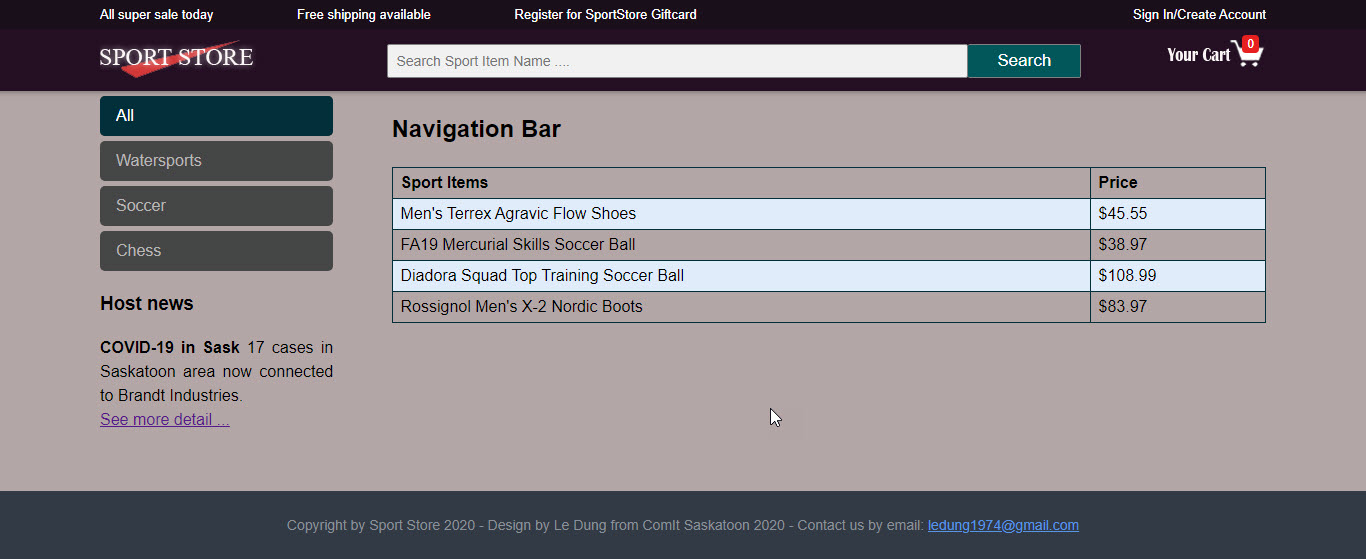
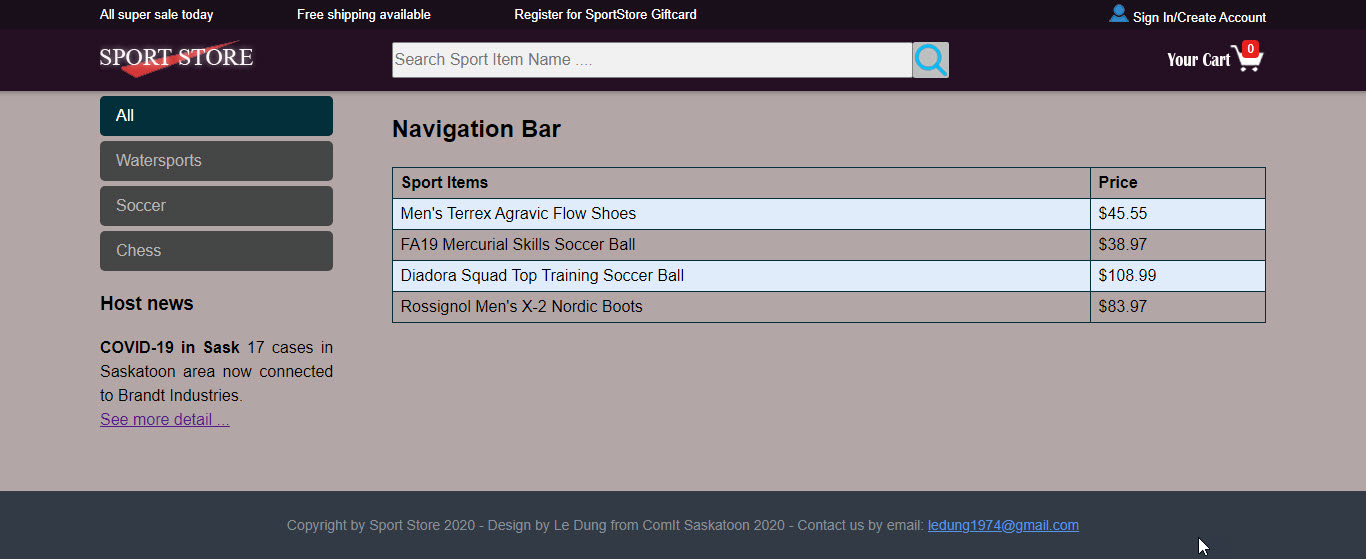
Update Sport Store using flexbox, grid and float

diff --git a/applications/sport-store/css/style.css b/applications/sport-store/css/style.css
@@ -18,6 +18,7 @@ body {
   font-family: Arial, sans-serif;
   font-size: 16px;
   line-height: 1.5;
+  box-sizing: border-box;
   position: relative;
 }
 
@@ -48,26 +49,26 @@ body {
 }
 
 #top-header{
-  position: relative;
+  display:flex;
+  justify-content: space-between;
   min-height: 29px;
   font-size: 13px;
   background-color: #1a0f1a;
 } 
 
 .header_quicklinks {
-    float: left;
     margin: 0;
     padding: 0px;
+    align-self: center;
   }
   .quick_links_wrapper {
-    float: left;
     margin: 0px;
     padding-left: 0px;
+    
   }
   .quick_links_item {
     display: inline-block;
     padding-right:80px;
-    padding-top: 5px;
   }
   .qlink {
     color: #fff;
@@ -75,9 +76,8 @@ body {
   }
   
   .header_signin {
-    float: right;
     padding-right:0px;
-    padding-top: 5px;
+    align-self: center;
   }
   .signin {
     color: #fff;
@@ -91,21 +91,57 @@ body {
   }
  
   #logo-header{
+    display:grid;
+    grid-template-columns: 25% 60% 15%; 
+    grid-template-rows:62px ;
     position: relative;
-    min-height: 62px;
     background-color: #240f23;
   }
   .page_header_logo {
-    float: left;
     margin: 0px;
     padding: 5px 0px;
-    width: 85%;
+    align-self: center;
   }
   
-  .header_cart {
-    position: relative;
-    float: right;
+  /* Header Search Style */
+  .header_search{
+    display:flex;
+    flex-direction: row;
+    margin: 0px;
+  }
+  
+  .header_search_form{
+    align-self: center;
+  } 
+
+  .search_input {
+    font-size: 16px;
+    height: 32px;
+    border: 1px solid grey;
+    background: #f1f1f1;
+  }
+  
+  .search_button {
+    align-self: center;
+    float:right;
+    color: white;
+    padding:0px 0px;
+    background-color: #bfc2c2;
+    width: 36px;
+    height: 36px;
+    border: none;
     cursor: pointer;
+  }
+  
+  .header_search_form button:hover {
+    background: #35a1a5;
+  }
+
+  .header_cart {
+    justify-self: flex-end;
+    position: relative;
+    cursor: pointer;
+    align-self: center;
   }
   
   .header_cart_trigger {
@@ -221,38 +257,6 @@ body {
   }
   
 
-  /* Header Search Style is still in the process of designing ....*/
-  .header_search{
-    float: right; 
-    position: relative;
-    width: 71%;
-    margin: 0px;
-    padding-top: 10px;
-  }
-
-  form.example input[type=text] {
-    padding: 8px;
-    font-size: 14px;
-    border: 1px solid grey;
-    float:left;
-    width: 80%;
-    background: #f1f1f1;
-  }
   
-  form.example button {
-    float: left;
-    width: 16%;
-    padding:6px 5px;
-    background: #01575a;
-    color: white;
-    font-size: 17px;
-    border: 1px solid grey;
-    border-left: none;
-    cursor: pointer;
-  }
-  
-  form.example button:hover {
-    background: #35a1a5;
-  }
   
   

diff --git a/applications/sport-store/index.html b/applications/sport-store/index.html
@@ -26,7 +26,8 @@
                 </ul>
             </div>
             <div class="header_signin">
-                        <a class="signin" href="#">Sign In/Create Account</a>
+                      <img class="user_icon" alt="User Icon" src="/applications/sport-store/images/user.png"/> 
+                      <a class="signin" href="#">Sign In/Create Account</a>
             </div>
         </div>
 
@@ -35,21 +36,22 @@
                 <a href="#">
                      <img class="logo_image" alt="Sport Store Logo" src="/applications/sport-store/images/logo.png" />
                 </a>
-                <div class="header_search">
-                  <form class="example" action="">
-                    <input type="text" placeholder="Search Sport Item Name ...." name="search">
-                    <button type="submit">Search</button>
-                  </form>
-                </div>
             </div>
 
-            
+            <div class="header_search">
+              <form class="header_search_form" action="">
+                <input class="search_input" type="text" size="60" placeholder="Search Sport Item Name ...." name="search">
+                <button class="search_button" type="submit">
+                     <img src="/applications/sport-store/images/searchicon.png"/>  
+                </button>
+              </form>
+            </div> 
 
             <div class="header_cart">
                  <a href="#" class="header_cart_trigger">
                      <span class="header_cart_count">0</span>
                  </a>
-          </div>
+            </div>
         </div>
       </header>
 
